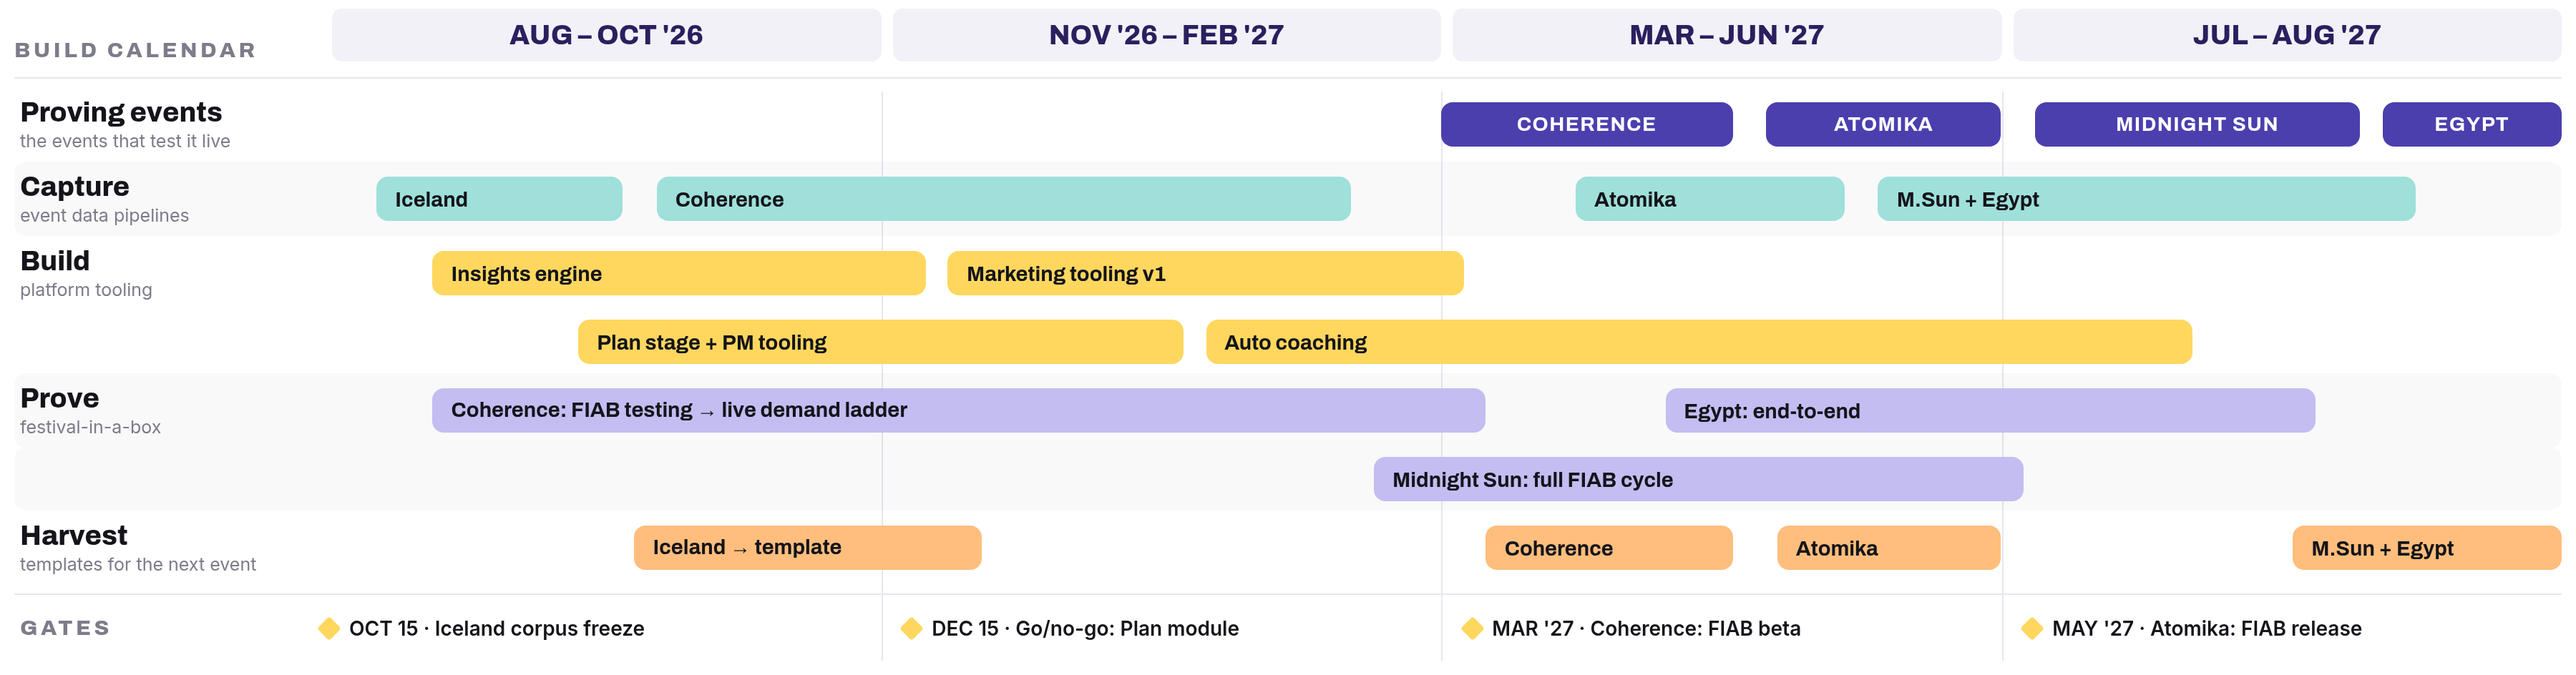
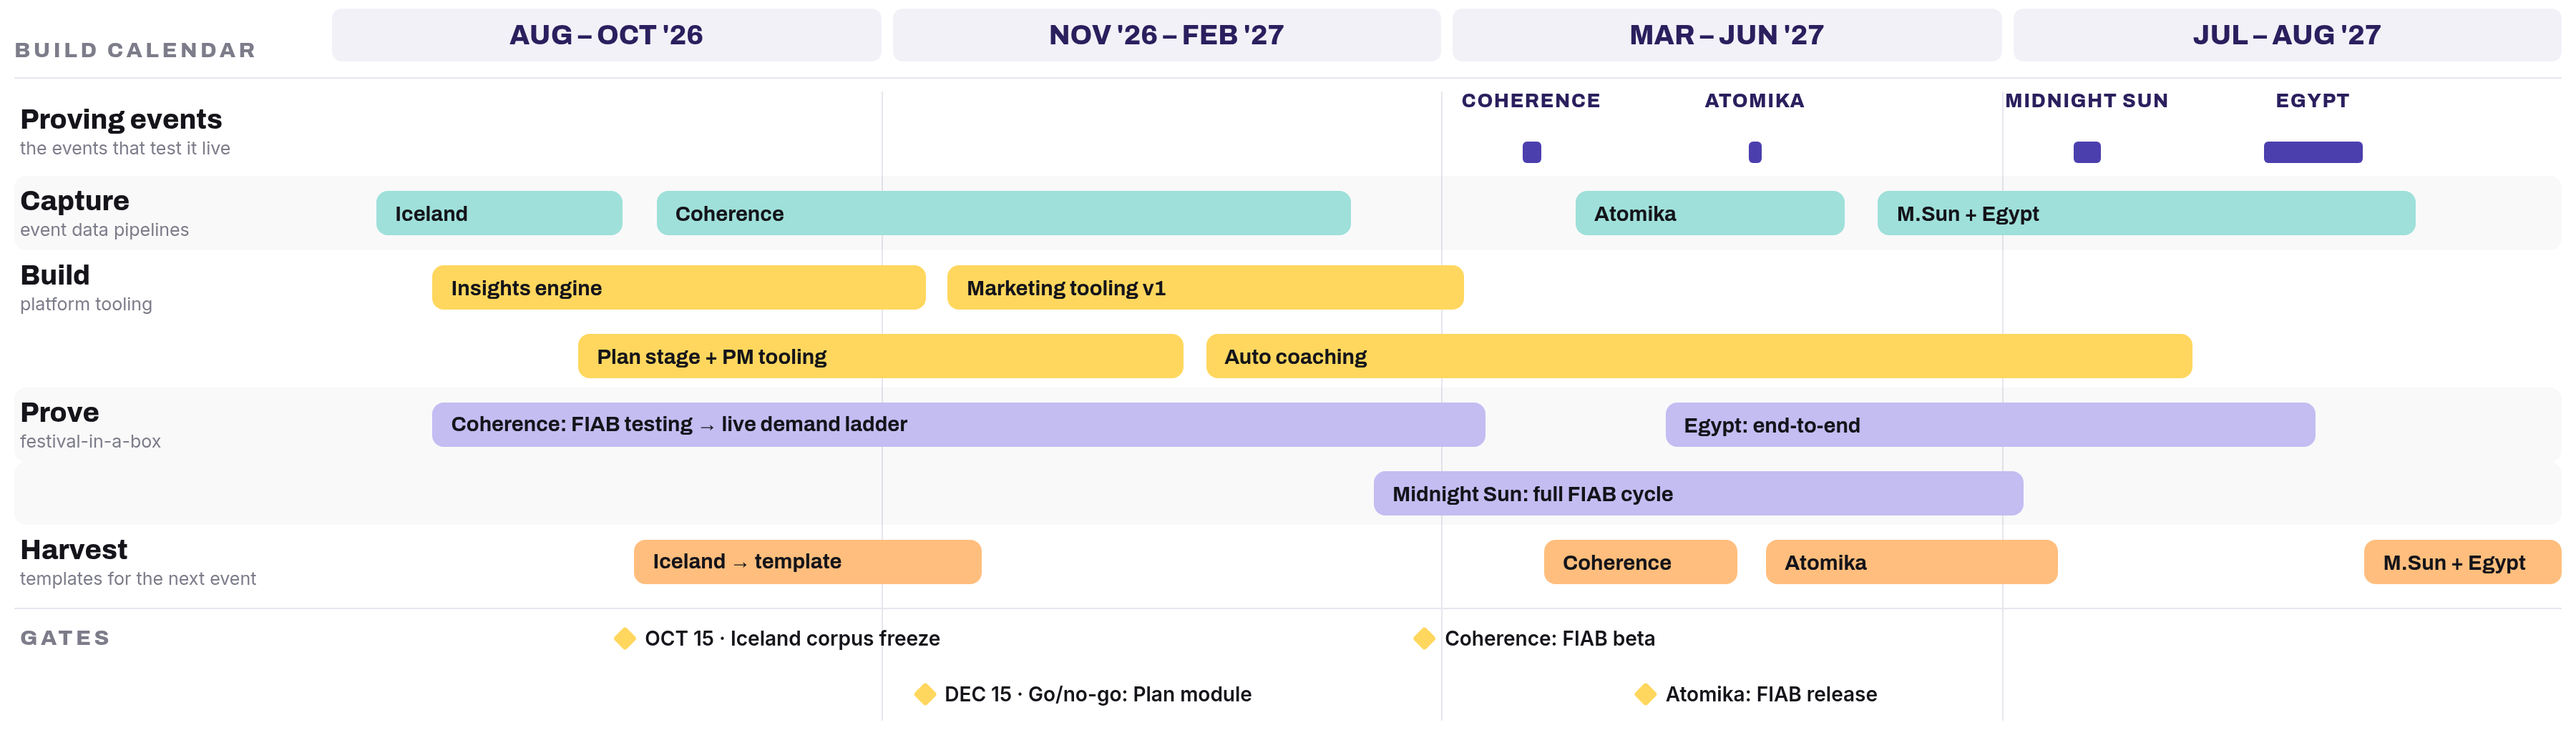
Plot the roadmap chart at true dates
The proving-event chips were sized to fit their text, not their duration, so
they were reading as date ranges that were wrong. Midnight Sun (9-11 Jul 27)
rendered as roughly 5 Jul to 9 Aug; Egypt (30 Jul - 9 Aug 27) rendered as
11-31 Aug, entirely after it actually ends.

Proving events are now plotted at true positions on the chart's own scale.
The bands are unequal in months (3 / 4 / 4 / 2 across four equal quarters of
the width), so positions are computed per band rather than linearly:
  Coherence     53.63% wide 0.81   (19-22 Mar 27)
  Atomika       63.71% wide 0.60   (7-9 May 27)
  Midnight Sun  78.23% wide 1.21   (9-11 Jul 27)
  Egypt         86.69% wide 4.44   (30 Jul - 9 Aug 27)
Each is a marker of its real duration with the name centred above it, since
a three-day festival is under 1% of the width and cannot hold a label. The
relative widths are now honest: Egypt reads as the eleven-day run it is.

Gates moved off their evenly-spaced positions to real ones: Oct 15 at 20.43%
(was 0%, reading as 1 Aug), Dec 15 at 34.07% (was 26%, reading as 4 Nov), and
the two FIAB gates pinned to the events they belong to. Split over two lines
so the long labels clear each other.

Harvest bars now start after their event finishes rather than before:
Coherence was starting four days before Coherence began, and M.Sun + Egypt
was starting a week before Egypt ended.

diff --git a/media/people/product-gantt.html b/media/people/product-gantt.html
@@ -44,8 +44,13 @@
   .bar{position:absolute;top:50%;transform:translateY(-50%);height:31px;border-radius:8px;
        display:flex;align-items:center;padding:0 13px;
        font-family:var(--disp);font-weight:700;font-size:14.5px;white-space:nowrap;color:var(--ink)}
-  .bar.ev{background:var(--indigo);color:#fff;justify-content:center;
-          font-size:14px;letter-spacing:.05em}
+  /* proving events are points in time, plotted at their true dates:
+     a marker of the real duration, with the name centred above it */
+  .pevlab{position:absolute;top:2px;transform:translateX(-50%);white-space:nowrap;
+          font-family:var(--disp);font-weight:800;font-size:13.5px;letter-spacing:.055em;
+          color:var(--indigo-d)}
+  .pevbar{position:absolute;bottom:9px;height:15px;min-width:8px;
+          background:var(--indigo);border-radius:3px}
   .bar.cap{background:var(--teal)} .bar.bld{background:var(--amber)}
   .bar.prv{background:var(--lav)}  .bar.hrv{background:var(--coral)}
 
@@ -76,13 +81,17 @@
     <div class="band">JUL &ndash; AUG '27</div>
   </div>
 
-  <div class="row">
+  <div class="row" style="min-height:62px">
     <div class="rlab">Proving events<small>the events that test it live</small></div>
-    <div class="track">
-      <div class="bar ev" style="left:50.0%;width:13%">COHERENCE</div>
-      <div class="bar ev" style="left:64.5%;width:10.5%">ATOMIKA</div>
-      <div class="bar ev" style="left:76.5%;width:14.5%">MIDNIGHT SUN</div>
-      <div class="bar ev" style="left:92%;width:8%">EGYPT</div>
+    <div class="track" style="height:62px">
+      <div class="pevlab" style="left:54.03%">COHERENCE</div>
+      <div class="pevbar" style="left:53.63%;width:0.81%"></div>
+      <div class="pevlab" style="left:64.01%">ATOMIKA</div>
+      <div class="pevbar" style="left:63.71%;width:0.60%"></div>
+      <div class="pevlab" style="left:78.83%">MIDNIGHT SUN</div>
+      <div class="pevbar" style="left:78.23%;width:1.21%"></div>
+      <div class="pevlab" style="left:88.91%">EGYPT</div>
+      <div class="pevbar" style="left:86.69%;width:4.44%"></div>
     </div>
   </div>
 
@@ -129,19 +138,24 @@
     <div class="rlab">Harvest<small>templates for the next event</small></div>
     <div class="track">
       <div class="bar hrv" style="left:14%;width:15.5%">Iceland &rarr; template</div>
-      <div class="bar hrv" style="left:52%;width:11%">Coherence</div>
-      <div class="bar hrv" style="left:65%;width:10%">Atomika</div>
-      <div class="bar hrv" style="left:88%;width:12%">M.Sun + Egypt</div>
+      <div class="bar hrv" style="left:54.6%;width:8.6%">Coherence</div>
+      <div class="bar hrv" style="left:64.5%;width:13%">Atomika</div>
+      <div class="bar hrv" style="left:91.2%;width:8.8%">M.Sun + Egypt</div>
     </div>
   </div>
 
-  <div class="row" style="min-height:46px;border-top:1.5px solid var(--rule);margin-top:6px">
+  <div class="row" style="min-height:40px;border-top:1.5px solid var(--rule);margin-top:6px">
     <div class="rlab" style="font-size:15px;letter-spacing:.15em;text-transform:uppercase;color:var(--grey)">Gates</div>
-    <div class="track" style="height:46px">
-      <div class="gate" style="left:0"><span class="dia"></span>OCT 15 &middot; Iceland corpus freeze</div>
-      <div class="gate" style="left:26%"><span class="dia"></span>DEC 15 &middot; Go/no-go: Plan module</div>
-      <div class="gate" style="left:51%"><span class="dia"></span>MAR '27 &middot; Coherence: FIAB beta</div>
-      <div class="gate" style="left:76%"><span class="dia"></span>MAY '27 &middot; Atomika: FIAB release</div>
+    <div class="track" style="height:40px">
+      <div class="gate" style="left:20.43%;transform:translate(-50%,-50%)"><span class="dia"></span>OCT 15 &middot; Iceland corpus freeze</div>
+      <div class="gate" style="left:54.23%;transform:translate(-50%,-50%)"><span class="dia"></span>Coherence: FIAB beta</div>
+    </div>
+  </div>
+  <div class="row" style="min-height:38px">
+    <div class="rlab"></div>
+    <div class="track" style="height:38px">
+      <div class="gate" style="left:34.07%;transform:translate(-50%,-50%)"><span class="dia"></span>DEC 15 &middot; Go/no-go: Plan module</div>
+      <div class="gate" style="left:64.11%;transform:translate(-50%,-50%)"><span class="dia"></span>Atomika: FIAB release</div>
     </div>
   </div>
 
